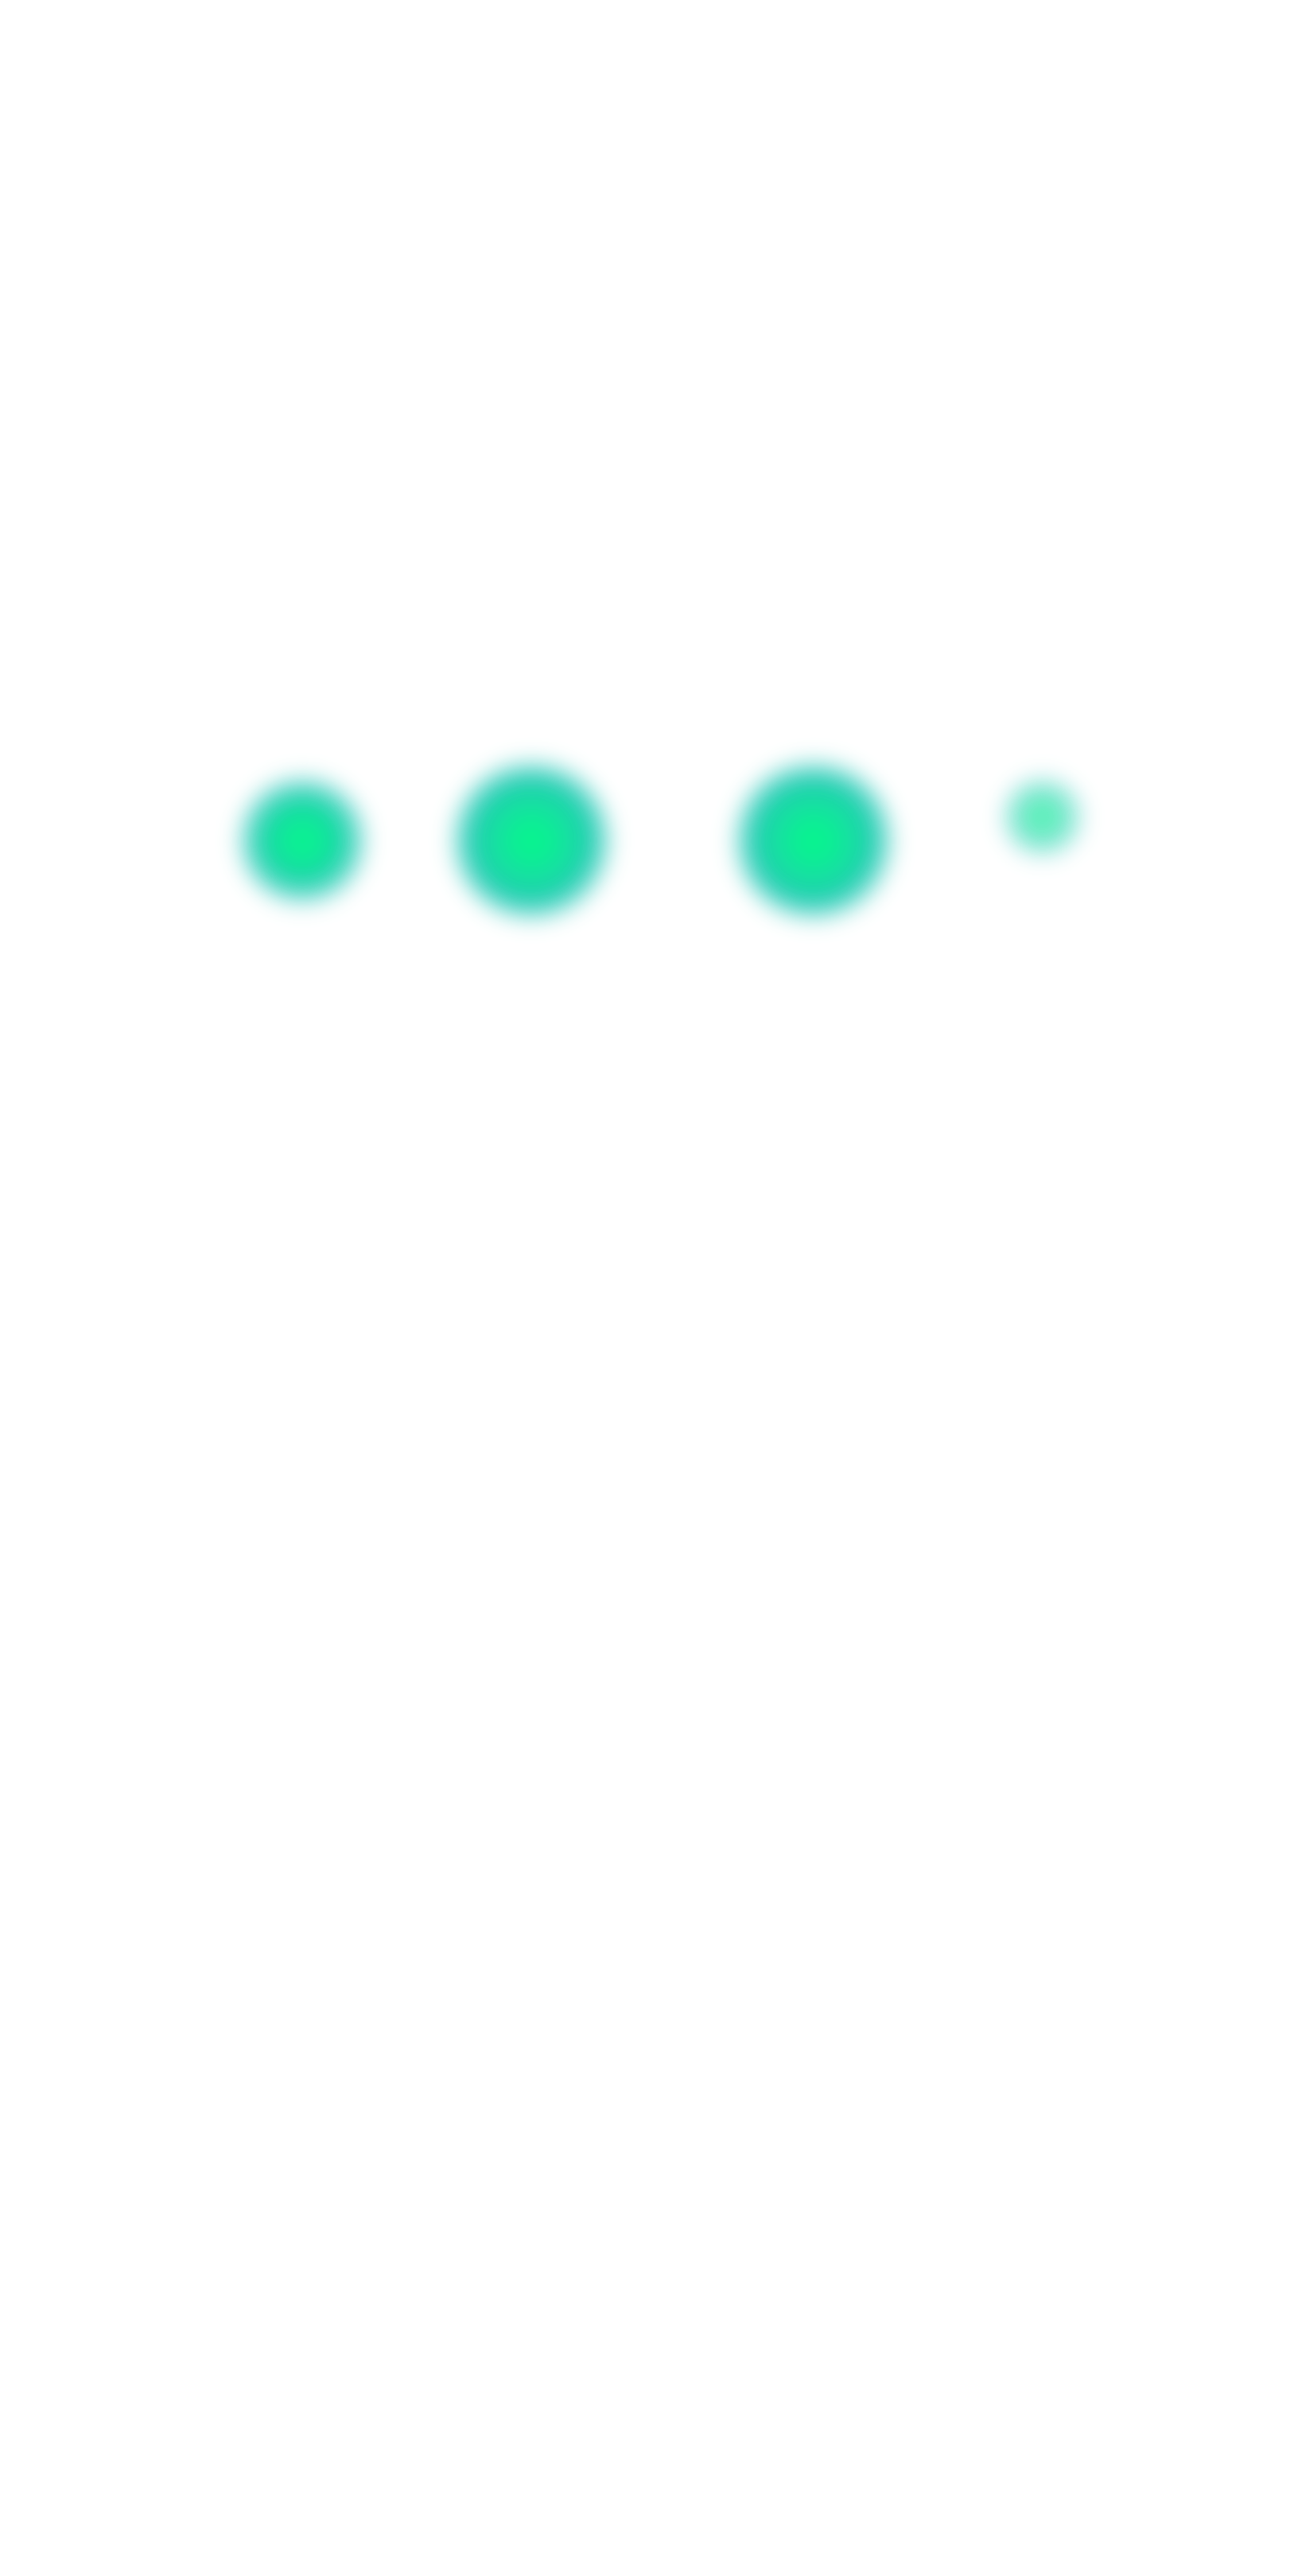
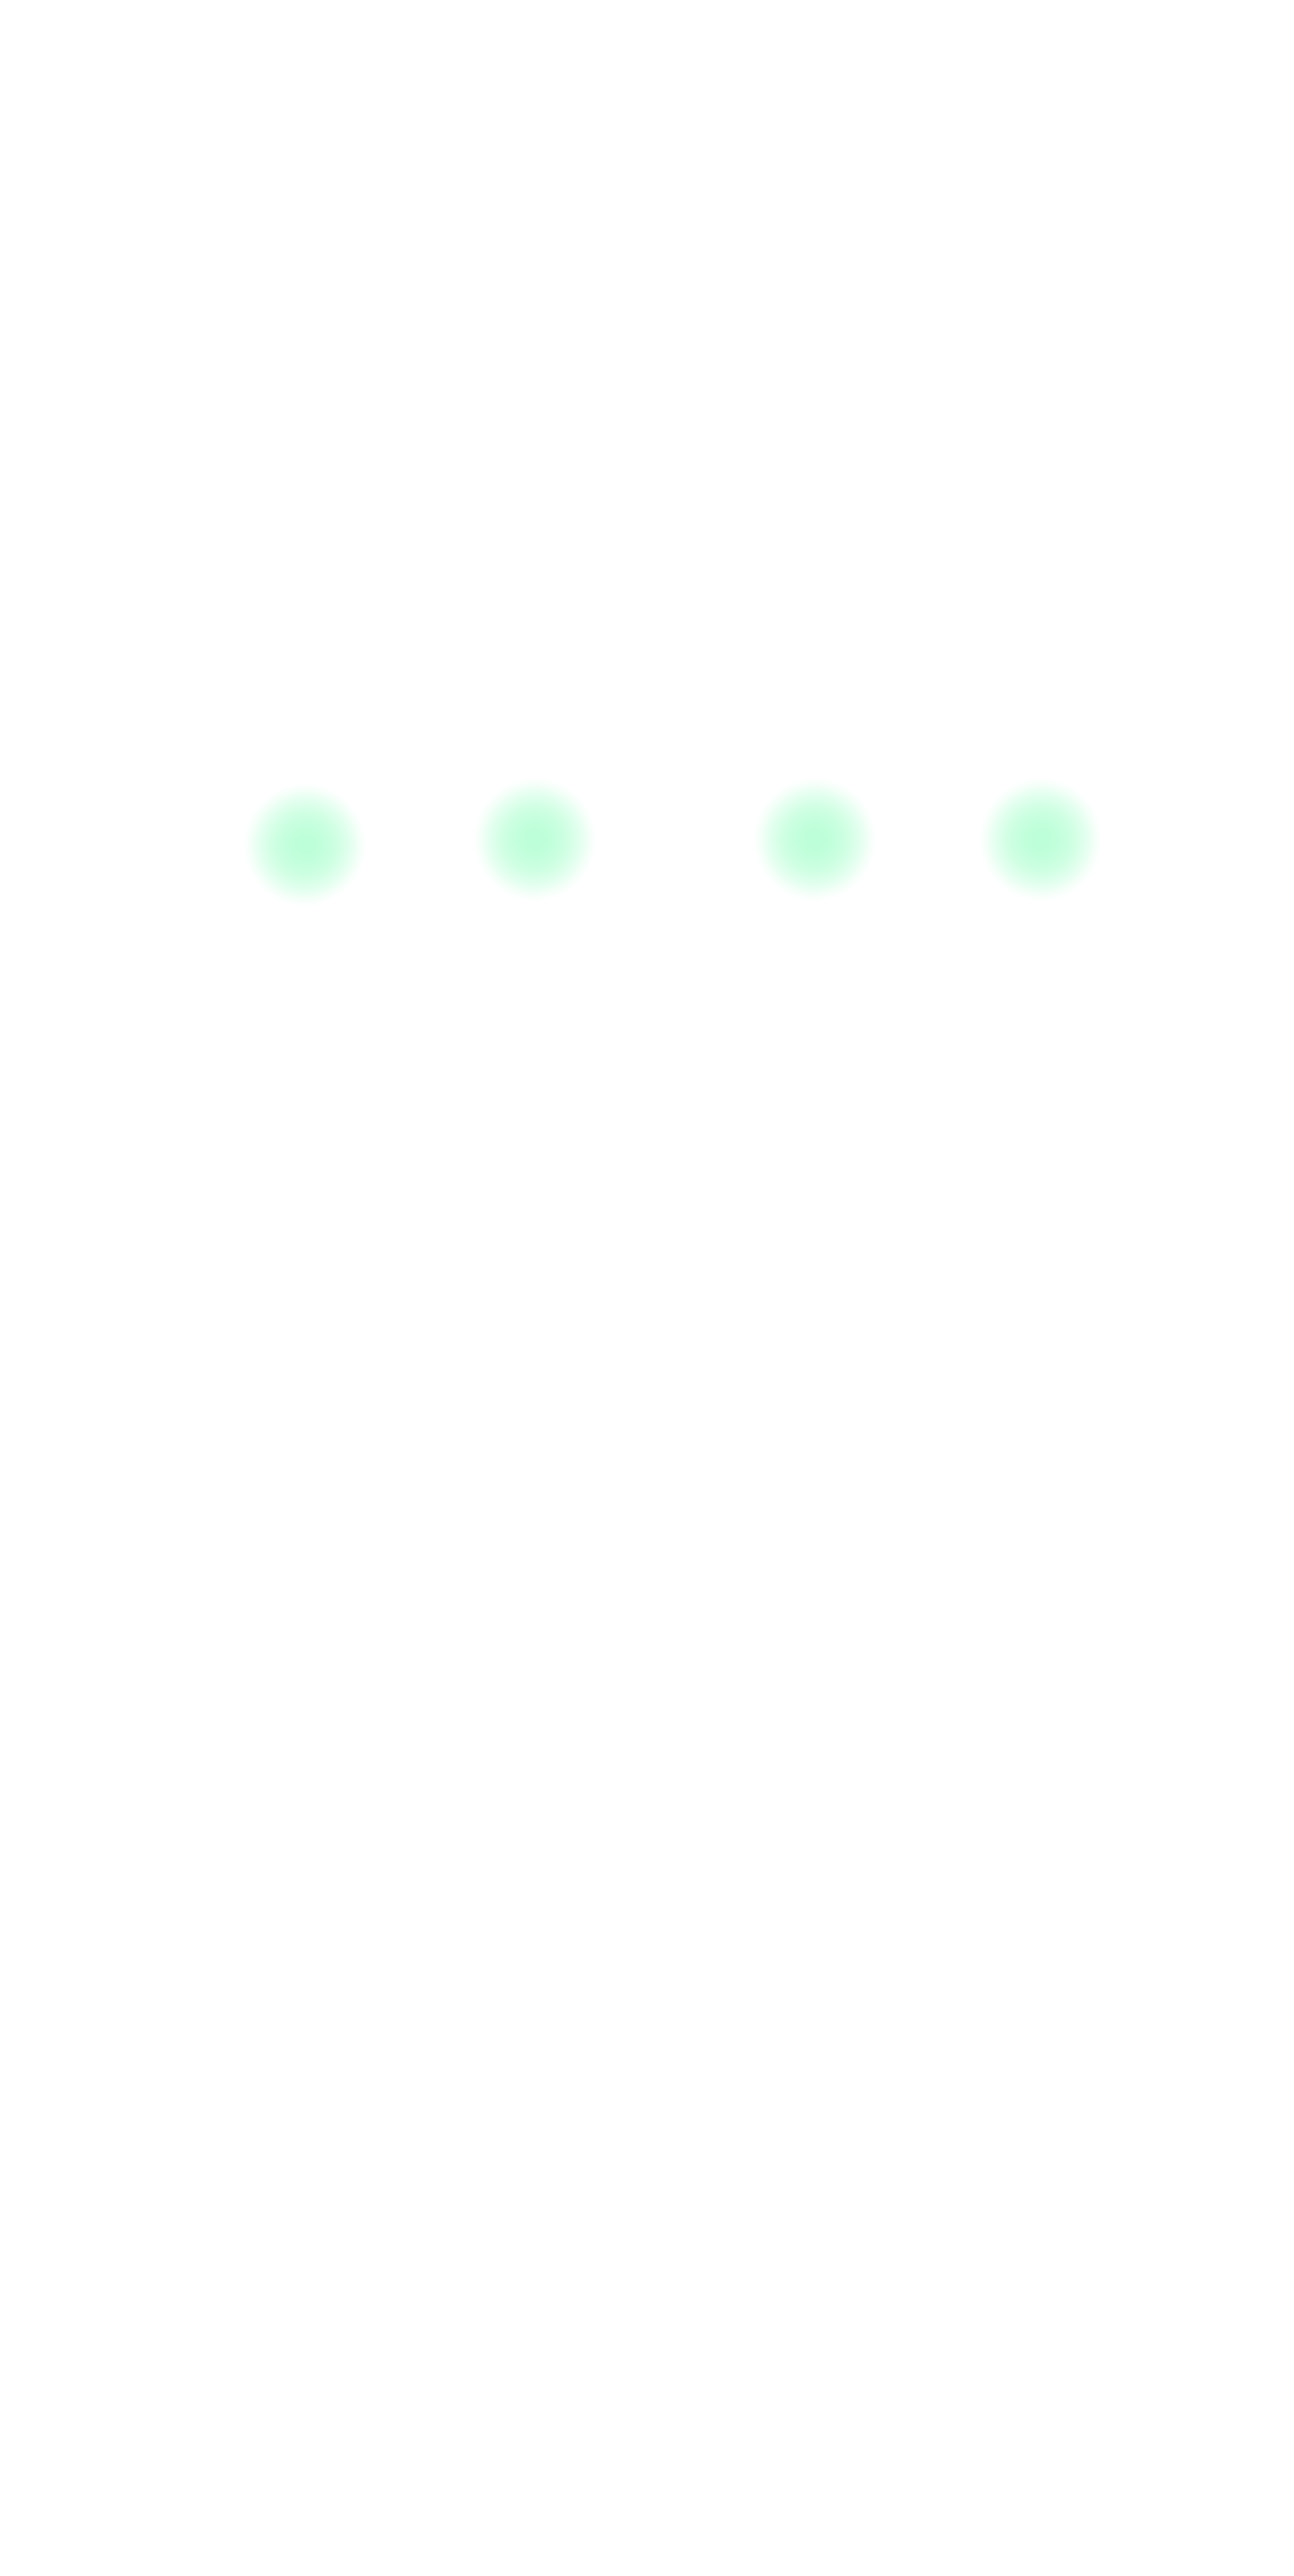
add more highlights and wait for window onload

diff --git a/src/about.js b/src/about.js
@@ -10,7 +10,7 @@ export function run() {
 
   aboutSection.style.display = "block";
 
-  setTimeout(() => {
+  window.onload = () => {
     document.querySelectorAll(".large-filter").forEach(function (icon) {
       if (icon.id === "large-octagram") {
         initShowcaseItems(icon, ["88", "85", "18", "22"]);
@@ -20,7 +20,7 @@ export function run() {
         initShowcaseItems(icon, ["11", "82", "95", "74"]);
       }
     });
-  }, 1000);
+  };
 }
 
 aboutButton.onclick = function () {
